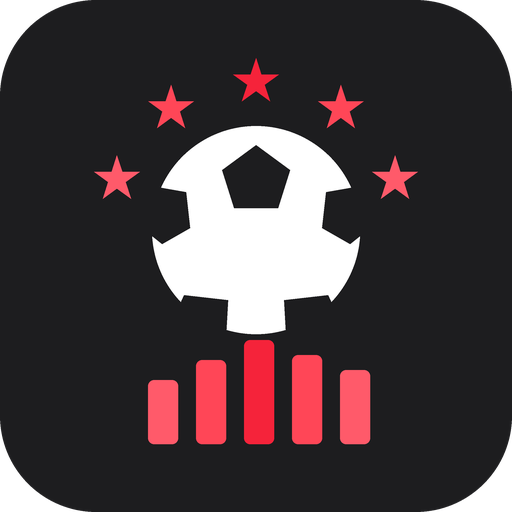
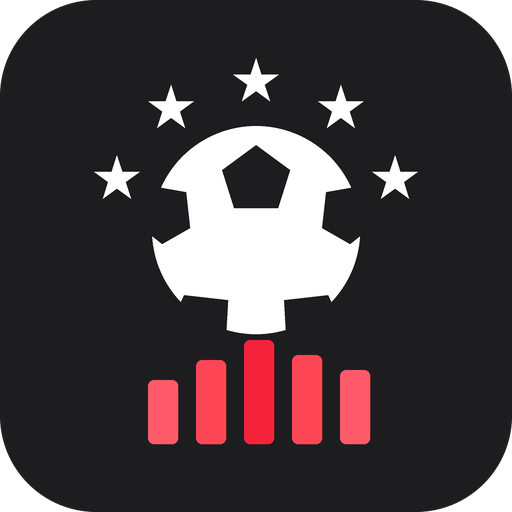
fix(crossleague): white stars
Red stars competed with the red bars for the same meaning. White matches
the ball, so the stars and the ball read as one object on the near-black
disc and the red is left to mean "analytics" alone.

Also decouples the star count from the bar palette — star_centres() was
sizing the arc off len(REDS), a coupling that only held while the stars
happened to be red.

diff --git a/dashboards/crossleague/scripts/render_logo.py b/dashboards/crossleague/scripts/render_logo.py
@@ -9,9 +9,8 @@ what it writes.
     python3 scripts/render_logo.py
 
 The mark is the Krogvad Analytics Hub badge — near-black disc, white football,
-five red analytics bars — with an arc of five red stars over the ball, one per
-league. The stars take the bars' own reds, palest at the ends and strongest in
-the middle, so the two rows read as the same family rather than two ideas.
+five red analytics bars — with an arc of five white stars over the ball, one
+per league.
 """
 import math
 import os
@@ -38,14 +37,18 @@ BARS = [(148, 380, 30, 64), (196, 360, 30, 84), (244, 340, 30, 104),
         (292, 355, 30, 89), (340, 370, 30, 74)]
 
 # Five stars on an arc over the ball — struck from the ball's own centre, so
-# the arc stays concentric with it however the ball moves.
+# the arc stays concentric with it however the ball moves. White, matching the
+# ball rather than the bars: on the near-black disc the stars then read as one
+# object with the ball, and the red is left to mean "analytics" alone.
+STAR_COUNT = 5            # one per league
+STAR_FILL = WHITE
 STAR_ARC_R = 148.0
 STAR_A0, STAR_A1 = -160.0, -20.0
 STAR_R = 24.0
 
 
 def star_centres():
-    n = len(REDS)
+    n = STAR_COUNT
     return [(BALL[0] + STAR_ARC_R * math.cos(math.radians(a)),
              BALL[1] + STAR_ARC_R * math.sin(math.radians(a)))
             for a in (STAR_A0 + (STAR_A1 - STAR_A0) * i / (n - 1) for i in range(n))]
@@ -67,9 +70,9 @@ def mark_body(indent="  "):
     """Everything inside the badge: stars, ball, bars."""
     bx, by, br = BALL
     L = []
-    for (cx, cy), col in zip(star_centres(), REDS):
+    for cx, cy in star_centres():
         pts = " ".join(f"{x:.1f},{y:.1f}" for x, y in star_points(cx, cy, STAR_R))
-        L.append(f'{indent}<polygon points="{pts}" fill="{hexof(col)}"/>')
+        L.append(f'{indent}<polygon points="{pts}" fill="{hexof(STAR_FILL)}"/>')
     L.append(f'{indent}<circle cx="{bx:.0f}" cy="{by:.0f}" r="{br:.0f}" fill="{hexof(WHITE)}"/>')
     L.append(f'{indent}<g clip-path="url(#ball)">')
     for p in PATCHES:
@@ -133,8 +136,9 @@ def draw_mark(n, tile=False):
     else:
         d.ellipse([0, 0, n - 1, n - 1], fill=INK + (255,))
 
-    for (cx, cy), col in zip(star_centres(), REDS):
-        d.polygon([(sc(x), sc(y)) for x, y in star_points(cx, cy, STAR_R)], fill=col + (255,))
+    for cx, cy in star_centres():
+        d.polygon([(sc(x), sc(y)) for x, y in star_points(cx, cy, STAR_R)],
+                  fill=STAR_FILL + (255,))
 
     bx, by, br = BALL
     box = [sc(bx - br), sc(by - br), sc(bx + br), sc(by + br)]
